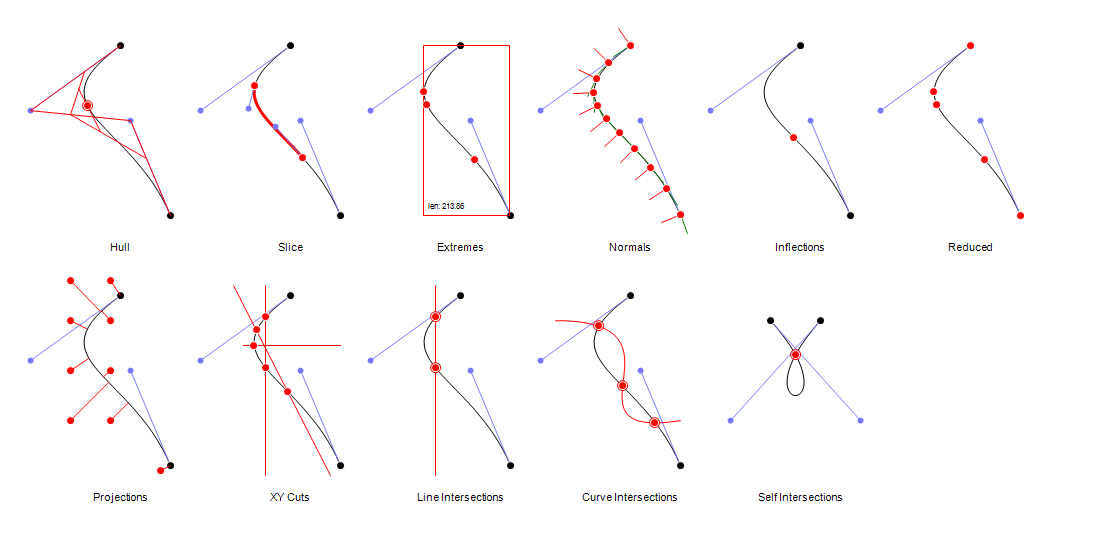
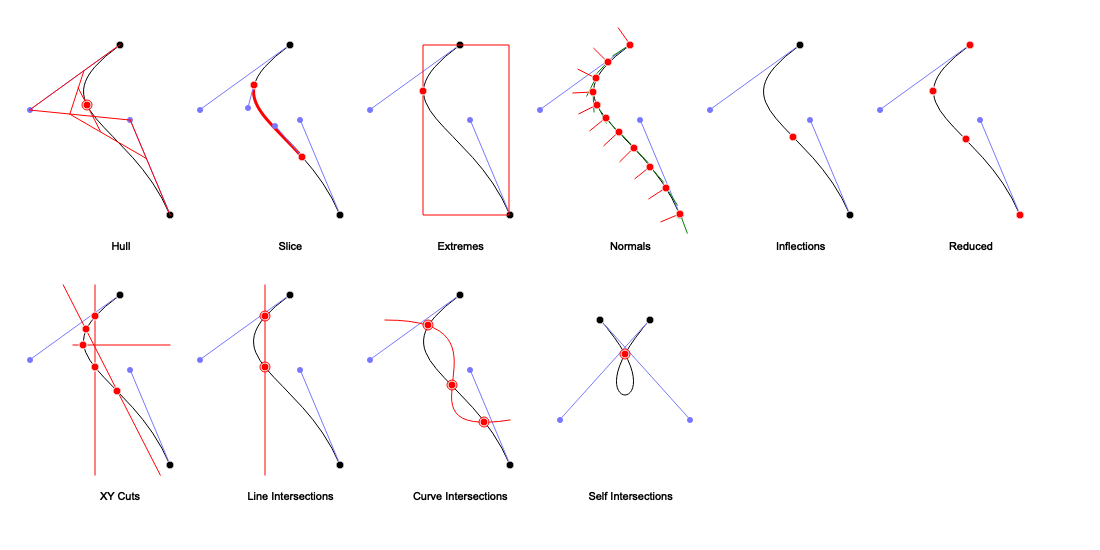
Boolean example

diff --git a/examples/drawing/draw_path_bool.py b/examples/drawing/draw_path_bool.py
@@ -20,6 +20,7 @@ class DrawTest(pero.Graphics):
         width, height = canvas.viewport.wh
         size = min((width-4*padding) / 3, (height-2*padding)) * 2/3
         shift = offset * size
+        anchor = (padding + shift, height - padding)
         
         # init matrix
         mat = pero.Matrix().translate(x_shift=size+shift+padding)
@@ -65,17 +66,22 @@ class DrawTest(pero.Graphics):
             line_color = pero.colors.Black,
             fill_color = pero.colors.Gray.trans(0.5))
         
+        label = pero.Text(
+            text_align = pero.TEXT_ALIGN_LEFT)
+        
         # draw union
         result = path_1.clone().union(path_2).union(path_3)
         shape_1.draw(canvas, path=path_1)
         shape_2.draw(canvas, path=path_2)
         shape_3.draw(canvas, path=path_3)
         pather.draw(canvas, path=result)
+        label.draw(canvas, text="Union", x=anchor[0], y=anchor[1])
         
         # offset paths
         path_1.transform(mat)
         path_2.transform(mat)
         path_3.transform(mat)
+        anchor = mat.transform(*anchor)
         
         # draw subtract
         result = path_1.clone().subtract(path_2).subtract(path_3)
@@ -83,11 +89,13 @@ class DrawTest(pero.Graphics):
         shape_2.draw(canvas, path=path_2)
         shape_3.draw(canvas, path=path_3)
         pather.draw(canvas, path=result)
+        label.draw(canvas, text="Subtract", x=anchor[0], y=anchor[1])
         
         # offset paths
         path_1.transform(mat)
         path_2.transform(mat)
         path_3.transform(mat)
+        anchor = mat.transform(*anchor)
         
         # draw intersect
         result = path_1.clone().intersect(path_2).intersect(path_3)
@@ -95,6 +103,7 @@ class DrawTest(pero.Graphics):
         shape_2.draw(canvas, path=path_2)
         shape_3.draw(canvas, path=path_3)
         pather.draw(canvas, path=result)
+        label.draw(canvas, text="Intersect", x=anchor[0], y=anchor[1])
 
 
 # run test

diff --git a/README.md b/README.md
@@ -454,6 +454,7 @@ understand all the following images. Check the image name and find corresponding
     <img src="https://raw.githubusercontent.com/xxao/pero/master/examples/images/gauge_strait.png" height="150"/>
     <img src="https://raw.githubusercontent.com/xxao/pero/master/examples/images/path.png" height="150"/>
     <img src="https://raw.githubusercontent.com/xxao/pero/master/examples/images/bezier.png" height="150"/>
+    <img src="https://raw.githubusercontent.com/xxao/pero/master/examples/images/boolean.png" height="150"/>
     <img src="https://raw.githubusercontent.com/xxao/pero/master/examples/images/text_polar.png" height="150"/>
     <img src="https://raw.githubusercontent.com/xxao/pero/master/examples/images/axis_radial.png" height="150"/>
     <img src="https://raw.githubusercontent.com/xxao/pero/master/examples/images/axis_strait.png" height="150"/>
